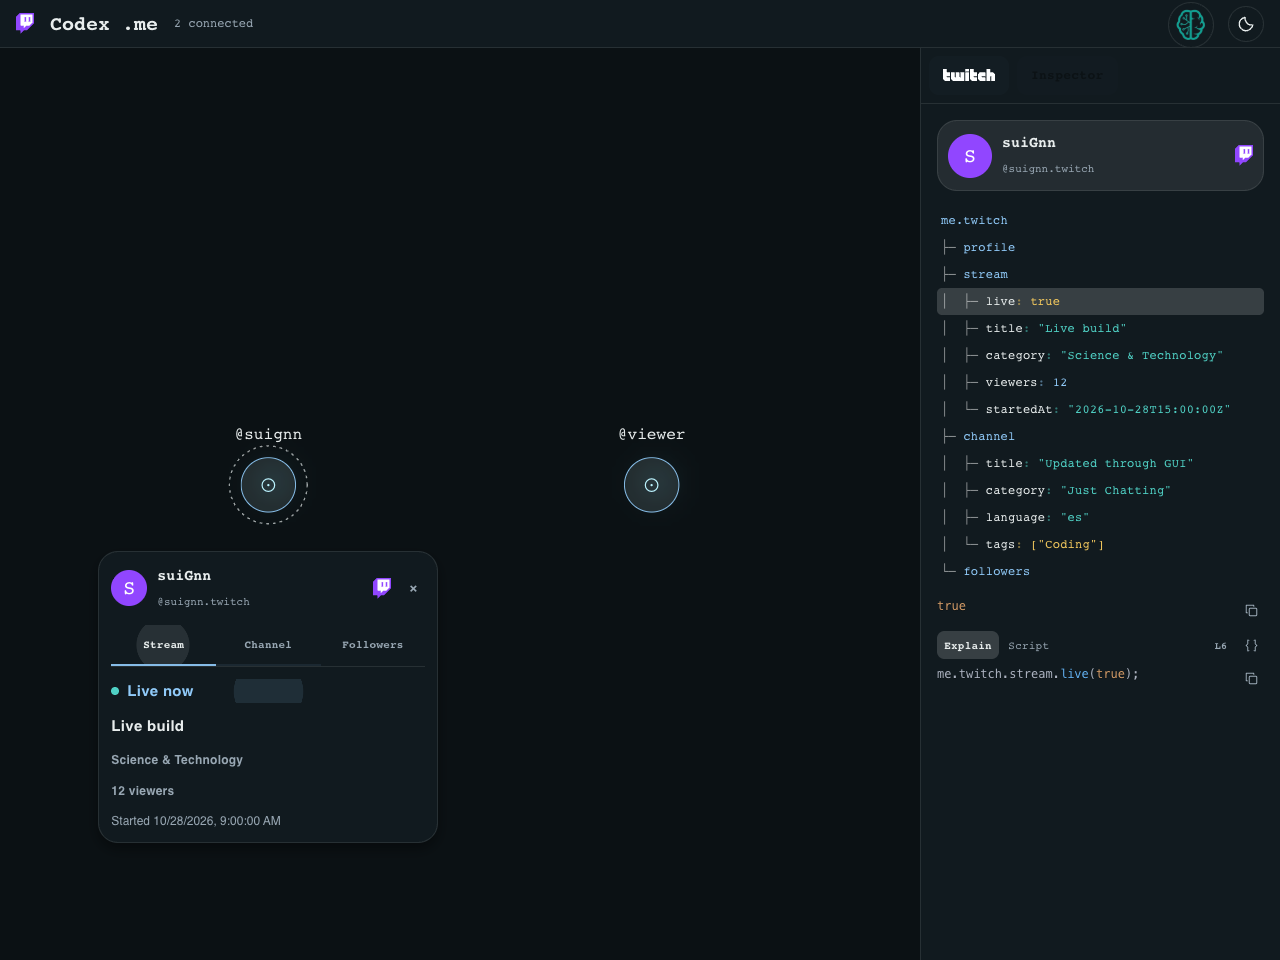
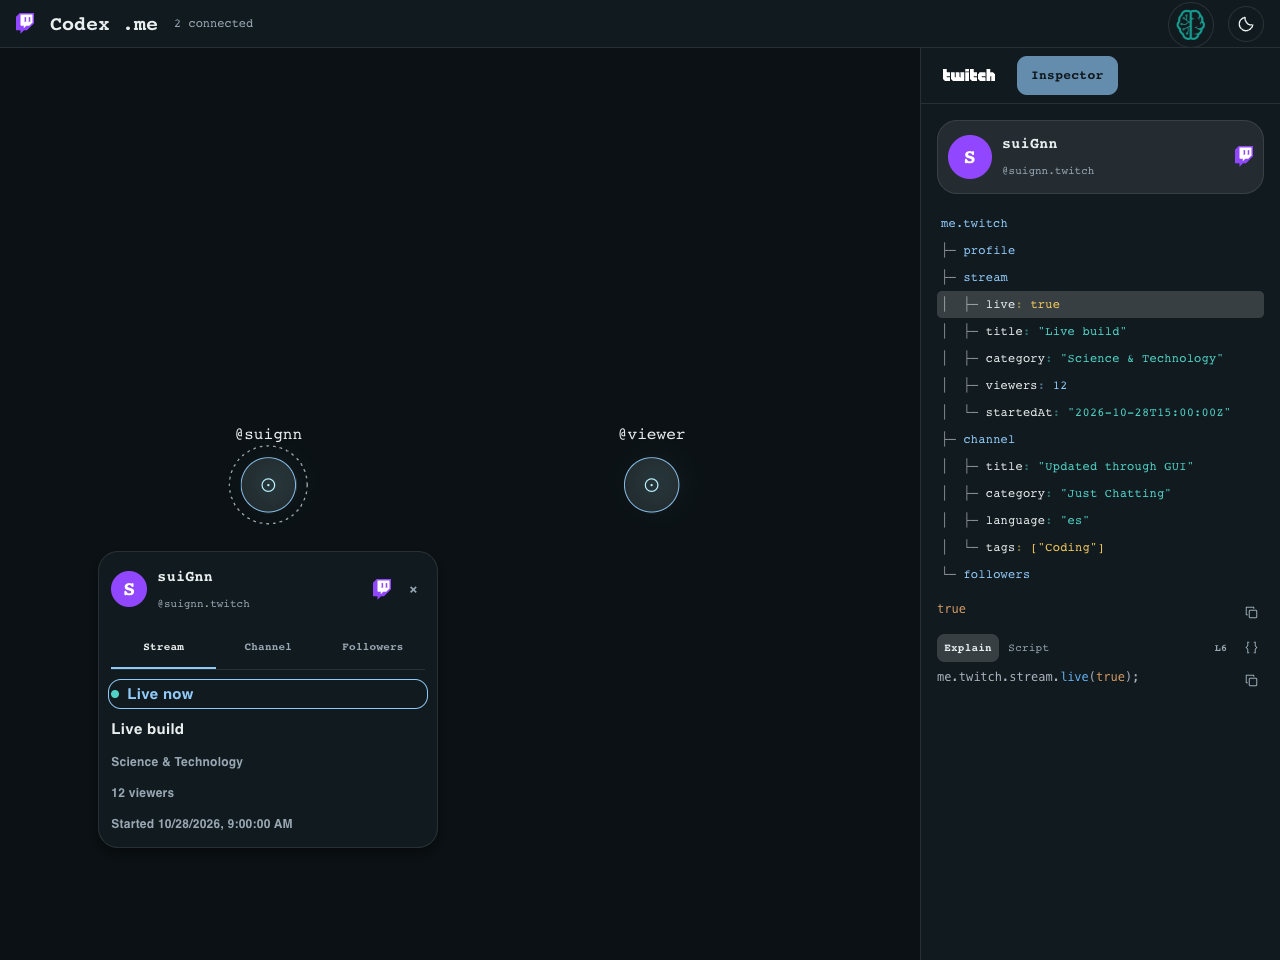
fix: synchronize Twitch card and inspector selection

diff --git a/overlay/twitch-surface.js b/overlay/twitch-surface.js
@@ -31,17 +31,18 @@ function ChannelForm({ kernel, values, permissions, path, selectPath }) {
     finally { setBusy(false); }
   };
   const focus = field => () => selectPath(`twitch.channel.${field}`);
+  const binding = field => ({ 'data-me-path': `twitch.channel.${field}`, 'data-path-selected': path === `twitch.channel.${field}`, onClick: focus(field) });
   const fieldProps = { size: 'small', fullWidth: true, variant: 'outlined', disabled: busy, InputLabelProps: { shrink: true } };
   const codes = [...new Set([...languages, values.language].filter(Boolean))];
   return h(Box, { component: 'form', 'aria-label': 'Channel settings', onSubmit: save, sx: { display: 'grid', gap: 1.75, pt: 0.5 } },
     h(Note, null, !permissions ? 'Checking permissions…' : permissions.own ? canEdit ? 'Your channel · editing enabled' : 'Your channel · read access' : 'Public channel · read only'),
-    h(TextField, { ...fieldProps, label: 'Title', focused: path === 'twitch.channel.title', value: draft.title, placeholder: 'No title set', onFocus: focus('title'), onChange: event => update('title', event.target.value), InputProps: { readOnly: !canEdit }, inputProps: { maxLength: 140 }, 'data-channel-title': true }),
-    canEdit ? h(CategoryPicker, { kernelId: kernel.id, value: draft.category, focused: path === 'twitch.channel.category', disabled: busy, onFocus: focus('category'), onChange: (category, categoryId) => { setDraft(previous => ({ ...previous, category, categoryId })); setDirty(true); setMessage(null); } })
-      : h(TextField, { ...fieldProps, label: 'Category', focused: path === 'twitch.channel.category', value: values.category, placeholder: 'No category set', InputProps: { readOnly: true }, onFocus: focus('category') }),
-    canEdit ? h(TextField, { ...fieldProps, label: 'Language', focused: path === 'twitch.channel.language', value: draft.language, select: true, SelectProps: { native: true }, onFocus: focus('language'), onChange: event => update('language', event.target.value) }, codes.map(code => h('option', { key: code, value: code }, languageName(code))))
-      : h(TextField, { ...fieldProps, label: 'Language', focused: path === 'twitch.channel.language', value: languageName(values.language) || 'Not set', InputProps: { readOnly: true }, onFocus: focus('language') }),
+    h(TextField, { ...fieldProps, ...binding('title'), label: 'Title', focused: path === 'twitch.channel.title', value: draft.title, placeholder: 'No title set', onFocus: focus('title'), onChange: event => update('title', event.target.value), InputProps: { readOnly: !canEdit }, inputProps: { maxLength: 140 }, 'data-channel-title': true }),
+    h(Box, { ...binding('category') }, canEdit ? h(CategoryPicker, { kernelId: kernel.id, value: draft.category, focused: path === 'twitch.channel.category', disabled: busy, onFocus: focus('category'), onChange: (category, categoryId) => { setDraft(previous => ({ ...previous, category, categoryId })); setDirty(true); setMessage(null); } })
+      : h(TextField, { ...fieldProps, label: 'Category', focused: path === 'twitch.channel.category', value: values.category, placeholder: 'No category set', InputProps: { readOnly: true }, onFocus: focus('category') })),
+    canEdit ? h(TextField, { ...fieldProps, ...binding('language'), label: 'Language', focused: path === 'twitch.channel.language', value: draft.language, select: true, SelectProps: { native: true }, onFocus: focus('language'), onChange: event => update('language', event.target.value) }, codes.map(code => h('option', { key: code, value: code }, languageName(code))))
+      : h(TextField, { ...fieldProps, ...binding('language'), label: 'Language', focused: path === 'twitch.channel.language', value: languageName(values.language) || 'Not set', InputProps: { readOnly: true }, onFocus: focus('language') }),
     h(Typography, { sx: { fontSize: 12, color: 'text.secondary', mb: -1 } }, 'Tags'),
-    h(Box, { onClick: focus('tags'), sx: { display: 'flex', flexWrap: 'wrap', gap: 0.75 } }, values.tags.length ? values.tags.map(tag => h(Box, { key: tag, component: 'span', sx: { px: 1, py: 0.25, borderRadius: 1, bgcolor: 'action.hover', fontSize: 12 } }, tag)) : h(Note, null, 'No tags set')),
+    h(Button, { ...binding('tags'), 'aria-label': 'Inspect channel tags', 'aria-pressed': path === 'twitch.channel.tags', sx: { display: 'flex', justifyContent: 'flex-start', flexWrap: 'wrap', gap: 0.75, p: 0, minWidth: 0, textTransform: 'none', color: 'text.primary' } }, values.tags.length ? values.tags.map(tag => h(Box, { key: tag, component: 'span', sx: { px: 1, py: 0.25, borderRadius: 1, bgcolor: 'action.hover', fontSize: 12 } }, tag)) : h(Note, null, 'No tags set')),
     canEdit ? h(Box, { sx: { display: 'flex', gap: 1 } },
       h(Button, { type: 'submit', size: 'small', variant: 'contained', disabled: !dirty || busy || (draft.title === values.title && draft.language === values.language && draft.category === values.category) || (draft.category !== values.category && !draft.categoryId) || (draft.title !== values.title && !draft.title.trim()), sx: { textTransform: 'none' } }, busy ? 'Saving…' : 'Save to Twitch'),
       dirty ? h(Button, { type: 'button', size: 'small', disabled: busy, onClick: () => { setDirty(false); setMessage(null); }, sx: { textTransform: 'none' } }, 'Cancel') : null)
@@ -59,15 +60,16 @@ export function TwitchSurface({ kernel, path, selectPath }) {
   }, [kernel.id]);
   const section = path.split('.')[1] || 'stream', state = kernel.sections?.[section];
   const values = Object.fromEntries((kernel.graph?.nodes || []).filter(node => node.path.startsWith(`twitch.${section}.`)).map(node => [node.path.slice(`twitch.${section}.`.length), node.value]));
+  const binding = field => ({ 'data-me-path': `twitch.${section}.${field}`, 'data-path-selected': path === `twitch.${section}.${field}` });
   const view = children => h(Box, { 'data-twitch-surface': section, sx: { minWidth: 0 } }, children);
   if (state?.status === 'error') return view(h(Note, { error: true }, state.error || 'Twitch data unavailable.'));
   if (section !== 'profile' && state?.status !== 'ready' && !Object.keys(values).length) return view(h(Note, null, 'Loading Twitch data…'));
   if (section === 'channel') return view(h(ChannelForm, { kernel, values, permissions, path, selectPath }));
-  if (section === 'followers') return view(h(Box, { sx: { py: 2, textAlign: 'center' } }, h(Button, { 'data-follower-count': true, 'aria-label': 'Inspect follower count', 'aria-pressed': path === 'twitch.followers.total', onClick: () => selectPath('twitch.followers.total'), sx: { fontSize: 44, lineHeight: 1.2, fontWeight: 600, p: 0, minWidth: 0, color: path === 'twitch.followers.total' ? 'primary.main' : 'text.primary', '&:hover': { color: 'primary.main', bgcolor: 'transparent' } } }, values.total.toLocaleString('en')), h(Typography, { sx: { fontSize: 13, color: 'text.secondary' } }, values.total === 1 ? 'Follower' : 'Followers')));
+  if (section === 'followers') return view(h(Box, { sx: { py: 2, textAlign: 'center' } }, h(Button, { ...binding('total'), 'data-follower-count': true, 'aria-label': 'Inspect follower count', 'aria-pressed': path === 'twitch.followers.total', onClick: () => selectPath('twitch.followers.total'), sx: { fontSize: 44, lineHeight: 1.2, fontWeight: 600, p: 0, minWidth: 0, color: path === 'twitch.followers.total' ? 'primary.main' : 'text.primary', '&:hover': { color: 'primary.main', bgcolor: 'transparent' } } }, values.total.toLocaleString('en')), h(Typography, { sx: { fontSize: 13, color: 'text.secondary' } }, values.total === 1 ? 'Follower' : 'Followers')));
   if (section === 'stream') return view(h(Box, { sx: { display: 'grid', gap: 1.25 } },
-    h(Button, { 'aria-label': 'Inspect stream status', 'aria-pressed': path === 'twitch.stream.live', onClick: () => selectPath('twitch.stream.live'), sx: { display: 'flex', alignItems: 'center', justifyContent: 'flex-start', gap: 1, p: 0, minWidth: 0, color: path === 'twitch.stream.live' ? 'primary.main' : 'text.primary', textTransform: 'none' } }, h(Box, { 'aria-hidden': true, sx: { width: 8, height: 8, borderRadius: '50%', bgcolor: values.live ? 'success.main' : 'text.disabled' } }), h(Typography, { sx: { fontWeight: 600, fontSize: 15 } }, values.live ? 'Live now' : 'Offline')),
-    ...['title','category','viewers'].filter(field => values[field] != null && values[field] !== '').map(field => h(Button, { key: field, 'aria-label': `Inspect stream ${field}`, 'aria-pressed': path === `twitch.stream.${field}`, onClick: () => selectPath(`twitch.stream.${field}`), sx: { display: 'block', p: 0, minWidth: 0, textAlign: 'left', textTransform: 'none', fontSize: field === 'title' ? 15 : 12, overflowWrap: 'anywhere', color: path === `twitch.stream.${field}` ? 'primary.main' : field === 'title' ? 'text.primary' : 'text.secondary' } }, field === 'viewers' ? `${values[field].toLocaleString('en')} viewers` : values[field])),
-    values.startedAt ? h(Note, null, `Started ${new Date(values.startedAt).toLocaleString()}`) : null));
+    h(Button, { ...binding('live'), 'aria-label': 'Inspect stream status', 'aria-pressed': path === 'twitch.stream.live', onClick: () => selectPath('twitch.stream.live'), sx: { display: 'flex', alignItems: 'center', justifyContent: 'flex-start', gap: 1, p: 0, minWidth: 0, color: path === 'twitch.stream.live' ? 'primary.main' : 'text.primary', textTransform: 'none' } }, h(Box, { 'aria-hidden': true, sx: { width: 8, height: 8, borderRadius: '50%', bgcolor: values.live ? 'success.main' : 'text.disabled' } }), h(Typography, { sx: { fontWeight: 600, fontSize: 15 } }, values.live ? 'Live now' : 'Offline')),
+    ...['title','category','viewers'].filter(field => values[field] != null && values[field] !== '').map(field => h(Button, { ...binding(field), key: field, 'aria-label': `Inspect stream ${field}`, 'aria-pressed': path === `twitch.stream.${field}`, onClick: () => selectPath(`twitch.stream.${field}`), sx: { display: 'block', p: 0, minWidth: 0, textAlign: 'left', textTransform: 'none', fontSize: field === 'title' ? 15 : 12, overflowWrap: 'anywhere', color: path === `twitch.stream.${field}` ? 'primary.main' : field === 'title' ? 'text.primary' : 'text.secondary' } }, field === 'viewers' ? `${values[field].toLocaleString('en')} viewers` : values[field])),
+    values.startedAt ? h(Button, { ...binding('startedAt'), 'aria-label': 'Inspect stream start time', 'aria-pressed': path === 'twitch.stream.startedAt', onClick: () => selectPath('twitch.stream.startedAt'), sx: { p: 0, minWidth: 0, textAlign: 'left', justifyContent: 'flex-start', textTransform: 'none', fontSize: 12, color: 'text.secondary' } }, `Started ${new Date(values.startedAt).toLocaleString()}`) : null));
   // Public profile facts remain inspectable; the header is their rendered profile.
   return null;
 }

diff --git a/overlay/spiders.js b/overlay/spiders.js
@@ -11,16 +11,17 @@ const transparent = new URLSearchParams(location.search).get('transparent') === 
 if (transparent) document.body.classList.add('transparent');
 else document.documentElement.classList.add('spiders-web');
 const mono = { fontFamily: '"IBM Plex Mono", ui-monospace, monospace' };
-function TwitchProfile({ kernel, compact = false, onClose }) {
+function TwitchProfile({ kernel, compact = false, onClose, path, selectPath }) {
   const values = Object.fromEntries((kernel.graph?.nodes || []).map(node => [node.path, node.value]));
   const login = values['twitch.profile.login'] || kernel.owner;
   const name = values['twitch.profile.displayName'] || login;
   const link = `https://www.twitch.tv/${encodeURIComponent(login)}`;
-  return h(Box, { 'data-twitch-profile': kernel.id, sx: { display: 'flex', alignItems: 'center', gap: 1.25, p: compact ? 0 : 1.25, mb: compact ? 1.5 : 2, border: compact ? 0 : 1, borderColor: 'divider', borderRadius: 2, bgcolor: compact ? 'transparent' : 'action.hover' } },
-    h(Avatar, { 'data-profile-avatar': login, src: values['twitch.profile.profileImageUrl'] || undefined, alt: `${login}'s Twitch profile`, imgProps: { referrerPolicy: 'no-referrer' }, sx: { width: compact ? 36 : 44, height: compact ? 36 : 44, flexShrink: 0, bgcolor: '#9146ff', color: '#fff', ...mono } }, login.slice(0, 1).toUpperCase()),
+  const binding = field => ({ 'data-me-path': `twitch.profile.${field}`, 'data-path-selected': path === `twitch.profile.${field}`, onClick: () => selectPath?.(`twitch.profile.${field}`) });
+  return h(Box, { 'data-twitch-profile': kernel.id, 'data-me-path': 'twitch.profile', 'data-path-selected': path === 'twitch.profile' || path === 'twitch.profile.id', sx: { display: 'flex', alignItems: 'center', gap: 1.25, p: compact ? 0 : 1.25, mb: compact ? 1.5 : 2, border: compact ? 0 : 1, borderColor: 'divider', borderRadius: 2, bgcolor: compact ? 'transparent' : 'action.hover' } },
+    h(Button, { ...binding('profileImageUrl'), 'aria-label': 'Inspect profile image', 'aria-pressed': path === 'twitch.profile.profileImageUrl', sx: { p: 0, minWidth: 0, borderRadius: '50%', flexShrink: 0 } }, h(Avatar, { 'data-profile-avatar': login, src: values['twitch.profile.profileImageUrl'] || undefined, alt: `${login}'s Twitch profile`, imgProps: { referrerPolicy: 'no-referrer' }, sx: { width: compact ? 36 : 44, height: compact ? 36 : 44, flexShrink: 0, bgcolor: '#9146ff', color: '#fff', ...mono } }, login.slice(0, 1).toUpperCase())),
     h(Box, { sx: { flex: 1, minWidth: 0 } },
-      h(Typography, { sx: { ...mono, fontSize: 15, fontWeight: 600, overflow: 'hidden', textOverflow: 'ellipsis', whiteSpace: 'nowrap' } }, name),
-      h(Typography, { component: 'a', href: link, target: '_blank', rel: 'noopener noreferrer', sx: { ...mono, fontSize: 11, color: 'text.secondary', textDecoration: 'none', '&:hover': { color: 'primary.main', textDecoration: 'underline' } } }, `@${login}.twitch`)),
+      h(Button, { ...binding('displayName'), 'aria-label': 'Inspect profile display name', 'aria-pressed': path === 'twitch.profile.displayName', sx: { ...mono, display: 'block', p: 0, minWidth: 0, maxWidth: '100%', textTransform: 'none', textAlign: 'left', color: 'text.primary', fontSize: 15, fontWeight: 600, overflow: 'hidden', textOverflow: 'ellipsis', whiteSpace: 'nowrap' } }, name),
+      h(Typography, { ...binding('login'), component: 'a', href: link, target: '_blank', rel: 'noopener noreferrer', sx: { ...mono, fontSize: 11, color: 'text.secondary', textDecoration: 'none', '&:hover': { color: 'primary.main', textDecoration: 'underline' } } }, `@${login}.twitch`)),
     h(G.Atoms.Tooltip, { title: 'Open in Twitch', describeChild: true, arrow: true }, h(Box, { component: 'a', href: link, target: '_blank', rel: 'noopener noreferrer', 'aria-label': `Open ${login} on Twitch`, sx: { display: 'flex', alignItems: 'center', flexShrink: 0 } },
       h(Box, { component: 'img', src: '/ui/assets/twitch-glitch-purple.svg', alt: 'Twitch', sx: { width: 18, height: 21, display: 'block' } }))),
     onClose ? h(Button, { size: 'small', onClick: onClose, 'aria-label': 'Close bubble navigation', sx: { minWidth: 24, px: 0.5, color: 'text.secondary' } }, '×') : null);
@@ -48,8 +49,8 @@ function BubbleNavigation({ anchor, kernel, path, selectPath, onClose }) {
     return () => { observer.disconnect(); anchor.removeEventListener('transitionend', update); };
   }, [anchor, kernel]);
   return h(Box, { ref: card, 'data-bubble-navigation': kernel.id, role: 'region', 'aria-label': `Controls for @${kernel.owner}`, onKeyDown: event => { if (event.key === 'Escape') { event.stopPropagation(); onClose(); anchor.focus(); } },
-    sx: { position: 'absolute', ...position, zIndex: 5, boxSizing: 'border-box', p: 1.5, overflowY: 'auto', bgcolor: 'background.paper', color: 'text.primary', border: 1, borderColor: 'divider', borderRadius: 2, boxShadow: 6 } },
-    h(TwitchProfile, { kernel, compact: true, onClose }),
+    sx: { position: 'absolute', ...position, zIndex: 5, boxSizing: 'border-box', p: 1.5, overflowY: 'auto', bgcolor: 'background.paper', color: 'text.primary', border: 1, borderColor: 'divider', borderRadius: 2, boxShadow: 6, '& [data-path-selected="true"]': { outline: '1px solid', outlineColor: 'primary.main', outlineOffset: 2 } } },
+    h(TwitchProfile, { kernel, compact: true, onClose, path, selectPath }),
     h(TwitchSections, { owner: kernel.owner, path, selectPath }),
     h(TwitchSurface, { key: kernel.id, kernel, path, selectPath }));
 }
@@ -113,6 +114,11 @@ function App() {
     load().finally(() => { if (!controller.signal.aborted) schedule(); });
     return () => { controller.abort(); clearTimeout(timer); };
   }, [current?.id, section, detailsVisible]);
+  const selectFromInspector = nextPath => {
+    selectPath(nextPath);
+    // Reopen the same selected node without changing the active sidebar or input focus.
+    if (!bubbleAnchor && current) setBubbleAnchor(document.querySelector(`[data-me-bubble="${current.id}"]`));
+  };
   const openKernel = (kernel, anchor) => {
     if (transparent) return;
     if (selected !== kernel.id) { select(kernel.id); selectPath('twitch'); }
@@ -139,8 +145,8 @@ function App() {
         panel === 'chat' ? h(Box, { sx: { flex: 1, minHeight: 0 } }, h(TwitchChat, { kernels })) : null,
         h(Box, { sx: { display: panel === 'inspector' ? 'block' : 'none', p: 2, overflowY: 'auto', flex: 1, minHeight: 0 } },
           current ? h(React.Fragment, null,
-            h(TwitchProfile, { kernel: current }),
-            h(KernelTree, { kernel: current, path, selectPath }),
+            h(TwitchProfile, { kernel: current, path, selectPath: selectFromInspector }),
+            h(KernelTree, { kernel: current, path, selectPath: selectFromInspector }),
             sectionError && sectionError.id === current.id && sectionError.section === section ? h(Typography, { role: 'alert', sx: { ...mono, fontSize: 11, color: 'error.main' } }, sectionError.message) : null,
             h(Box, { sx: { display: path === 'twitch' ? 'none' : 'block' } }, h(KernelConsole, { kernel: current, path: panel === 'inspector' && path !== 'twitch' ? path : '' })))
             : h(Typography, { role: 'status', 'data-inspector-empty': true, sx: { ...mono, fontSize: 14, color: 'text.secondary' } }, 'Select a node')))));

diff --git a/README.md b/README.md
@@ -53,7 +53,7 @@ The selected kernel's profile header renders its real Twitch avatar, display nam
 
 The profile and bubble card use the label `@<login>.twitch` with the actual avatar and Twitch logo. This is a local account label, not a claimed protocol namespace or a registered domain. **Stream / Channel / Followers** are always-visible card tabs; Profile facts remain available in the technical inspector. The bubble is a rendered GUI surface: Channel is a labeled form with a human-readable language name and tags; Stream shows live/offline status and live statistics; Followers shows the actual count. The account header itself is the rendered profile, and its Twitch icon opens the channel and has an accessible **Open in Twitch** tooltip; no duplicate profile tab or View on Twitch button is shown. It contains no raw JSON, script or Explain view. Channel, Stream and Followers are API resource choices, not invented kernel facts before loading.
 
-Clicking a bubble opens its controls beside the node, synchronized with the inspector. Both share the selected kernel/path. Focusing a channel field, clicking a follower count or clicking live/offline status selects its matching inspector leaf. Selecting that leaf in the inspector highlights the matching GUI control, without replacing the form. The card initially shows Stream (Live now or Offline); the inspector initially selects the me.twitch root. Closing the card preserves selection. These controls remain outside the transparent OBS source.
+Clicking a bubble opens its controls beside the node, synchronized with the inspector. Both share the selected kernel/path. Clicking or focusing a channel field, selecting tags, a profile avatar/display name, a follower count or any available live-stream value selects its matching inspector leaf. The matching rendered control receives a theme-colored outline. Selecting a branch or leaf in the inspector also reopens the selected node’s card if closed, without moving keyboard focus or changing the active sidebar. Selecting a profile ID highlights its account header; no extra ID field is added to the GUI. The card initially shows Stream (Live now or Offline); the inspector initially selects the me.twitch root. Closing the card preserves selection. These controls remain outside the transparent OBS source.
 
 The inspector alone presents formatted whole-section JSON or a compact leaf value, with an icon-only Copy action and no surrounding code card. Its code tree starts at **me.twitch**, with **profile / stream / channel / followers** as lowercase property keys instead of category tabs. Expand branches to see actual stored leaves and their values, then select a row to inspect it. The root is a navigation view without a duplicate aggregate output; selecting a branch or leaf reveals its Output, Explain and Script controls. Arrow keys, Home/End and Enter navigate the tree. Branches are UI groupings of real memory paths; unloaded API sections have no fabricated values and are fetched on selection. Long string previews are truncated in the tree, while selecting the leaf exposes its complete value. It automatically reads `me(path)` from the existing server kernel. Compact **Explain / Script** controls below the output show the actual `me.explain(path)` JSON or the complete construction source, including expression, derivation and metadata from this.me 4.2.1. Tab selection persists across paths and kernels; obsolete query results are hidden. Explain is initially selected; arrow keys and Home/End navigate the tabs. Native GUI syntax highlighting is preserved without code-block headers, borders or backgrounds; copy actions use the overlapping-squares icon with accessible tooltips. Explain presents the matching syntax directly on the inspector background. Its compact **L…** link identifies the original source line(s), and the **{}** icon reveals the unmodified native explanation only when requested. The location link (**View in Script** to assistive technology) opens the complete, numbered script and scrolls to the highlighted declaration. Locations refer to the currently displayed reproducible construction script; they are not native VM execution frames or historical call stacks. Unrelated profile/section declarations are omitted from the Explain excerpt. The construction script is not re-executed, and arbitrary code/eval is not accepted. This object inspector is separate from GUI's general interface inspector and browser DOM developer tools. Face following changes presentation only.
 

diff --git a/evidence/SESSION.md b/evidence/SESSION.md
@@ -524,3 +524,12 @@ Twitch is now the initial sidebar panel. Removed forced inspector activation fro
 Verified endpoints and permissions against official Twitch API reference sections Search Categories, Get Games and Modify Channel Information. Verified the official removal of public follow/unfollow write endpoints (https://discuss.dev.twitch.com/t/deprecation-of-create-and-delete-follows-api-endpoints/32351/1). Following remains a viewer action on twitch.tv through the linked channel. No follow was performed.
 
 Offline real-server/browser integration passed, covering selected-ID category save/reimport, unknown or malformed ID rejection, denied other-user search, cached search results, unavailable stream fields, draft preservation through a simulated refresh, chat panel retention and no hidden inspector query requests until explicit activation. All 19 server regression checks passed. Only the verified codex-me process on :3017 was restarted after checking the port was free; it had only the bootstrapped owner presence. Existing authorization resumed and EventSub reconnected. Live browser verification confirmed real category results for Just, discarded the draft via Cancel, and left Twitch chat active with the compact Offline card. No actual category/title change, chat post, follow, broadcast or new permission grant was performed by the agent. Screenshots: twitch-category-search.png and twitch-chat-preserved.png.
+
+
+### 2026-10-29 — coordinated GUI and inspector selection
+
+Completed two-way selection bindings for the rendered Twitch profile avatar/display name/login, channel fields and tags, follower total, and every available live-stream value including startedAt. Card controls now expose the same selected memory path as the inspector tree and receive a thin theme-colored outline. Channel field clicks select their path in addition to focus events. Profile ID selection highlights the account header without introducing a raw ID field. Existing external Twitch links retain their destinations.
+
+Inspector selection reopens the correct selected node card if it was closed, keeping keyboard focus in the tree and preserving the active sidebar. GUI selection still does not switch the sidebar from Twitch to Inspector. No native kernel data, APIs, scopes, privileges or stream output format changed.
+
+The isolated real-kernel/server/browser integration passed with simulated Twitch, including both directions for profile and all live fields, channel tags, correct closed-card reopening, and the existing chat-preservation checks. The original ten tests passed unchanged. Actual local browser verification confirmed selecting tags from the inspector highlights the card, closing then selecting a path reopens that card, and clicking the Title field or Tags selects the exact tree leaf and corresponding output/expression. Screenshot: evidence/kernels/selection-synchronized.png. No real Twitch write, chat post or broadcast was performed.
